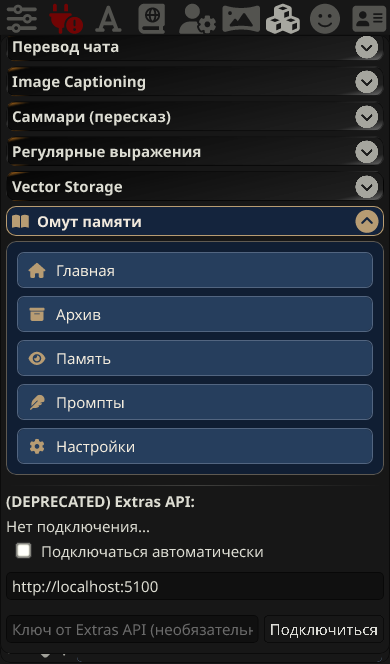
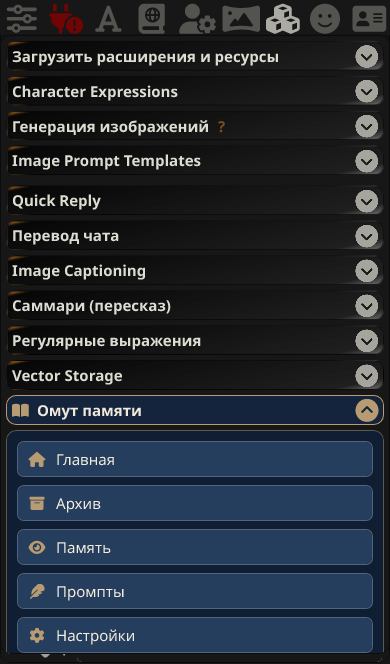
Keep navigation actionable and preserve current editor state

diff --git a/src/ui.js b/src/ui.js
@@ -37,8 +37,9 @@ export class UI {
         const composer=document.getElementById('send_form');
         if(composer)composer.before(this.restoreDock);else this.panel.before(this.restoreDock);
         if(!head.querySelector('.pv-sky')){const sky=el('div',{class:'pv-sky','aria-hidden':'true'});for(const name of ['hills','bridge','castle','eagle','sky-line'])sky.append(el('span',{class:'pv-'+name}));head.prepend(sky);}
-        // Keep ST's document-wide drawer handlers out of this native modal's click path.
+        // Keep ST's document-wide drawer handlers out of this window's click path.
         this.panel.addEventListener('click',event=>event.stopPropagation());
+        this.panel.addEventListener('keydown',event=>{if(event.key==='Escape'){event.preventDefault();this.close();}});
         this.panel.addEventListener('close',()=>{
             // close is queued by the browser; a rapid restore may already have reopened it.
             if(this.panel.open)return;
@@ -160,6 +161,8 @@ export class UI {
         for(const [id,label,glyph,action]of items) {
             const control=button('',event=>{
                 event.stopPropagation();this.returnFocus=event.currentTarget;action();
+                const settingsDrawer=document.querySelector('#extensions-settings-button .drawer-content');
+                if(settingsDrawer?.classList.contains('openDrawer'))document.querySelector('#extensions-settings-button .drawer-toggle')?.click();
             });control.id=id;control.className='pv-settings-action';
             control.append(el('i',{class:`fa-solid ${glyph}`,'aria-hidden':'true'}),el('span',{},label));
             actions.append(control);
@@ -190,20 +193,24 @@ export class UI {
         catch(error){this.showNotice(error.message);this.e.host.notify('error',error.message);await this.refresh(false).catch(()=>{});return null;}
     }
     open(tab=this.tab) {
-        const resume=this.windowState==='minimized'&&tab===this.tab;
-        const current=this.panel.open&&tab===this.tab&&this.content.dataset.ready==='true'&&(tab==='prompts'||this.isCurrentSession())&&!this.resumeDirty;
+        const force=this.windowState==='closed'||this.windowState==='minimized'&&tab!=='prompts';
         this.windowState='open';this.restoreDock.hidden=true;
-        if(!this.panel.open)this.panel.showModal();
-        if(current)return;
+        if(!this.panel.open)this.panel.show();
         // ST replaces chat metadata before emitting CHAT_CHANGED. Check the live
         // session synchronously, including during a pending chat network request.
-        if(!resume||(tab!=='prompts'&&(this.resumeDirty||!this.isCurrentSession())))this.go(tab);
+        this.go(tab,force);
         this.resumeDirty=false;
     }
     minimize() {if(!this.panel.open)return;this.windowState='minimized';this.restoreDock.hidden=false;this.panel.close();}
     restore() {this.open();}
     close() {this.windowState='closed';this.restoreDock.hidden=true;this.panel.close();}
     isCurrentSession() {try{if(!this.renderSession)return false;this.e.assert(this.renderSession);return true;}catch{return false;}}
+    canReuseView(tab) {
+        if(this.content.dataset.view!==tab||this.content.dataset.ready!=='true')return false;
+        if(tab==='prompts')return true;
+        if(tab==='settings'&&!this.renderSession){try{this.e.session();return false;}catch{return true;}}
+        return this.isCurrentSession()&&!this.resumeDirty;
+    }
     rememberView() {
         if(this.content.dataset.ready!=='true')return;
         const editor=this.promptEditor;
@@ -221,6 +228,7 @@ export class UI {
     }
     restoreView() {
         this.content.dataset.ready='true';
+        this.resumeDirty=false;
         const saved=this.workspaceViews?.get(JSON.stringify([this.renderSession?.key??null,this.tab]));if(!saved)return;
         const overlap=this.content.querySelector('[aria-label="Повторная обработка"]');if(overlap&&[...overlap.options].some(o=>o.value===saved.overlap))overlap.value=saved.overlap;
         const preview=this.content.querySelector('.pv-preview-details');if(preview)preview.open=saved.preview;
@@ -228,9 +236,9 @@ export class UI {
         for(const details of this.content.querySelectorAll('[data-entry-id] .pv-entry-more'))details.open=saved.openEntries.includes(details.closest('[data-entry-id]').dataset.entryId);
         this.content.scrollTop=saved.scroll;
     }
-    go(tab) {this.tab=tab;this.showNotice('');this.render().catch(error=>this.showNotice(error.message));}
+    go(tab,force=false) {if(!force&&this.canReuseView(tab))return;this.tab=tab;this.showNotice('');this.render().catch(error=>this.showNotice(error.message));}
     async refresh(render=false) {
-        if(this.windowState==='minimized')this.resumeDirty=true;
+        if(this.windowState!=='open')this.resumeDirty=true;
         const tab=this.tab;
         this.panel.dataset.theme=this.e.settings().theme;
         const memory=await this.e.refreshMemory();this.lastMemory=memory;this.decorateMessages();
@@ -460,7 +468,7 @@ export class UI {
         text.classList.add('pv-prompt-text');
         const editorHead=el('div',{class:'pv-prompt-heading'});editorHead.append(el('span',{},'Ваш промпт'),iconButton('Развернуть редактор',()=>this.expandPrompt(text),'fa-expand'));
         this.content.append(field('Пресет',select),editorHead,field(`Ваш промпт ${LEVELS[type].genitive}`,text),el('p',{class:'pv-muted'},'Текст используется буквально, включая Markdown и {{макросы}}. Расширение не навязывает структуру воспоминания. Сохраните изменения перед генерацией.'));
-        this.content.append(row(button('Сохранить промпт',()=>{preset.history.push(preset.text);preset.text=text.value;editor.base=preset.text;this.promptDrafts?.delete(key);this.saveSettings();this.showNotice('Промпт сохранён.');},true),button('Новый пресет',()=>this.act(async()=>{const name=await this.askText('Название нового пресета','');if(!name)return;const p={id:this.e.host.uuid(),name,text:text.value,history:[]};group.presets.push(p);group.selected=p.id;this.saveSettings();})),button('Переименовать',()=>this.act(async()=>{const name=await this.askText('Название пресета',preset.name);if(name){preset.name=name;this.saveSettings();}})),button('Предыдущая версия',()=>this.act(async()=>{if(!preset.history.length)throw Error('Предыдущих версий пока нет.');if(await this.confirm('Восстановление промпта','Восстановить предыдущую сохранённую версию?')){const previous=preset.history.pop();preset.history.push(preset.text);preset.text=previous;this.saveSettings();}}))));
+        this.content.append(row(button('Сохранить промпт',()=>{preset.history.push(preset.text);preset.text=text.value;editor.base=preset.text;this.promptDrafts?.delete(key);this.saveSettings();this.showNotice('Промпт сохранён.');},true),button('Новый пресет',()=>this.act(async()=>{const name=await this.askText('Название нового пресета','');if(!name)return;const p={id:this.e.host.uuid(),name,text:text.value,history:[]};group.presets.push(p);group.selected=p.id;this.saveSettings();})),button('Переименовать',()=>this.act(async()=>{const name=await this.askText('Название пресета',preset.name);if(name){preset.name=name;this.saveSettings();}})),button('Предыдущая версия',()=>this.act(async()=>{if(!preset.history.length)throw Error('Предыдущих версий пока нет.');if(await this.confirm('Восстановление промпта','Восстановить предыдущую сохранённую версию?')){const previous=preset.history.pop();preset.history.push(preset.text);preset.text=previous;text.value=previous;editor.base=previous;this.promptDrafts?.delete(key);this.saveSettings();}}))));
         this.content.append(row(button('Импорт из .txt',async()=>{try{const f=await readFile('.txt,.md,text/plain');if(f){text.value=f.text;this.showNotice('Текст загружен в редактор. Нажмите «Сохранить промпт».');}}catch(error){this.showNotice(error.message);}}),button('Экспорт .txt',()=>download(`pensieve-prompt-${type}.txt`,text.value,'text/plain')),button('Удалить пресет',()=>this.act(async()=>{if(group.presets.length<2)throw Error('Последний пресет удалить нельзя.');if(await this.confirm('Удаление пресета','Удалить выбранный пресет?')){group.presets=group.presets.filter(p=>p.id!==preset.id);group.selected=group.presets[0].id;this.saveSettings();}}))));
     }
     expandPrompt(text) {

diff --git a/style.css b/style.css
@@ -417,3 +417,6 @@
 @media(max-width:400px){.pensieve .pv-complete-backup button{font-size:12px;padding:7px 5px}}
 
 #pensieve-menu-open:hover{background:#213b5b;border-color:#b79c73}#pensieve-menu-open:active{background:#263f60}#pensieve-menu-open:focus-visible{outline:2px solid #b79c73;outline-offset:2px}
+
+/* The shared main window leaves ST navigation actionable; editors remain native modals. */
+#pensieve-panel{position:fixed;inset:calc(var(--topBarBlockSize,40px) + 6px) 0 6px;margin:0 auto;z-index:3000;height:calc(100dvh - var(--topBarBlockSize,40px) - 12px);max-height:calc(100dvh - var(--topBarBlockSize,40px) - 12px)}

diff --git a/docs/ui-1.6.2.md b/docs/ui-1.6.2.md
@@ -14,7 +14,11 @@
 
 ![Реальное меню в мобильном WebKit](images/settings-1.6.2-tabs.png)
 
-Каждый пункт напрямую вызывает прежний `UI.open(tab)`, без промежуточной главной страницы. Окно всегда одно: закрытое открывается на выбранной вкладке, открытое переключается, свёрнутое восстанавливается. Повторное нажатие текущей вкладки сохраняет DOM редактора. Заголовок, штатное сворачивание, запоминание состояния, нижний вход и защита одновременной регистрации сохранены.
+Каждый пункт напрямую вызывает прежний `UI.open(tab)`, без промежуточной главной страницы. Окно всегда одно: закрытое открывается на выбранной вкладке, открытое переключается, свёрнутое восстанавливается. Повторное нажатие текущей вкладки в меню и в основном окне сохраняет DOM редактора, курсор и выделение, в том числе после смены чата для общих промптов. Общие настройки без открытого чата также не пересоздаются при повторном выборе. Заголовок, штатное сворачивание, запоминание состояния, нижний вход и защита одновременной регистрации сохранены.
+
+Чтобы меню можно было нажимать при уже открытом окне, основное окно не блокирует остальной интерфейс и располагается под штатной верхней панелью ST. Меню расширений открывается поверх него; выбор пункта закрывает эту штатную панель и показывает выбранную вкладку. Основное окно закрывается крестиком или Escape, сворачивается прежней кнопкой. Редакторы, предпросмотры и подтверждения остаются модальными.
+
+![Главная с доступной верхней панелью ST](images/window-1.6.2-home.png)
 
 Фон кнопок `#263E5D`, раскрытого раздела `#101E33`, иконок `#B79C73`, текста `#F2EBDD`, границ `#526580`. Кнопки имеют одинаковую высоту и отступы; стили ограничены контейнером Pensieve. Чужие разделы не оформляются расширением.
 
@@ -22,7 +26,7 @@
 
 ## Несохранённый ввод
 
-В текущей странице удерживаются отдельные черновики промптов по уровню и пресету. Переходы по меню/основным вкладкам и повторное открытие не записывают этот текст в настройки. «Сохранить промпт» остаётся единственным подтверждением. Явный отказ от изменений при смене пресета удаляет черновик. Если сохранённый текст заменён, например импортом, устаревший черновик не подменяет новую версию. После сохранения последующее редактирование получает правильную новую исходную версию. При перезагрузке страницы несохранённые черновики не сохраняются.
+В текущей странице удерживаются отдельные черновики промптов по уровню и пресету. Переходы по меню/основным вкладкам и повторное открытие не записывают этот текст в настройки. «Сохранить промпт» остаётся единственным подтверждением. Явный отказ от изменений при смене пресета удаляет черновик. Если сохранённый текст заменён, например импортом, устаревший черновик не подменяет новую версию. После сохранения последующее редактирование получает правильную новую исходную версию. Подтверждённое восстановление предыдущей версии заменяет текущий черновик даже при совпадении сохранённых версий. При перезагрузке страницы несохранённые черновики не сохраняются.
 
 Диапазон эпизода, выбор источников и поиск продолжают использовать прежнее состояние интерфейса. Код хранения, генерации, иерархии, внедрения, резервных копий, статусов и исходных сообщений не изменён.
 
@@ -30,7 +34,7 @@
 
 - RED: старая версия показывала один пункт вместо пяти и теряла несохранённый промпт после перехода на главную. После изменений оба сценария проходят.
 - Chromium/Edge и WebKit с профилем iPhone: все 15 вариантов касания (иконка/текст/отступ), прямые вкладки из закрытого, открытого и свёрнутого состояния, отсутствие второго окна, штатное сворачивание и неизменность данных.
-- Три промпта: переходы с черновиками, повторная текущая вкладка, подтверждённый отказ от изменений, изменение сохранённой версии извне и новый черновик после сохранения.
+- Три промпта: переходы с черновиками, повторная текущая вкладка, подтверждённый отказ от изменений, изменение сохранённой версии извне и новый черновик после сохранения. Отдельно проверены реальные касания меню при открытом окне, сохранение узла/выделения редактора, событие смены чата, общие настройки без чата и восстановление совпадающей исторической версии.
 - Сохранены проверки одновременной регистрации одного раздела, мобильной ширины и клавиатуры, создания в чате с обоими режимами предпросмотра, иерархии, активной памяти и полного JSON-восстановления.
 - `npm test`: **121/121**; `npm run check`: **9 модулей** и согласованные версии.
 

diff --git a/README.md b/README.md
@@ -98,7 +98,7 @@
 
 ## Интерфейс и проверки
 
-Пять вкладок используют утверждённую палитру Когтеврана, есть светлая тема. CSS изолирован, кнопки работают обычным click с мышью и касанием. **−** скрывает окно с сохранением черновика, вкладки и прокрутки; одна кнопка над формой чата возвращает его без перекрытия ввода. **×** закрывает окно без кнопки восстановления. После перезагрузки окно закрыто, сохранённые данные остаются.
+Пять вкладок используют утверждённую палитру Когтеврана, есть светлая тема. Основное окно оставляет верхнюю навигацию ST доступной для выбора пунктов меню; редакторы и подтверждения остаются модальными. CSS изолирован, кнопки работают обычным click с мышью и касанием. **−** скрывает окно с сохранением черновика, вкладки и прокрутки; одна кнопка над формой чата возвращает его без перекрытия ввода. **×** закрывает окно без кнопки восстановления. После перезагрузки окно закрыто, сохранённые данные остаются.
 
 [Пять пунктов навигации, снимок и проверки v1.6.2](docs/ui-1.6.2.md). [Новые действия в чате, резервные копии и проверки v1.6.0](docs/ui-1.6.0.md). [Пять вкладок и трёхуровневая система v1.5.0](docs/ui-1.5.0.md).
 
